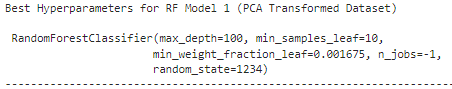
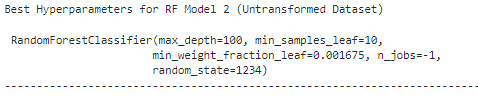
adding hyperparameter tuning

diff --git a/README-FM.md b/README-FM.md
@@ -66,6 +66,36 @@ Random Forest is a tree-based model that is suitable for both classification and
 
 Hence, all these reasons make Random Forest a sensible choice for the problem that we are trying to tackle.
 
+**Choosing the Best Hyperparameters for the Models**
+
+In order to choose the best set of hyperprameters for our models, we have used the `Validation Set` that was created earlier to tune the models and used a `Randomized Hyperparameter Search Technique`. The metric that we chose to track and tune our models was `AUC (Area Under the ROC Curve)`. This metric will be discussed in detail in the Model Assessment Section below. It essentially measures the ability of a model to distinguish between positive (sarcasm) and negative (non-sarcasm)  classes across all possible threshold values. The hyperparameters will be chosen based on the best AUC score that we are able to obtain on the validation set. 
+
+Some examples of model hyperparameters that we will be tuning are: `maximum depth of the tree`, `number of trees`, `number of data points in the leaf of a tree`, etc. These are parameters that cannot be learned during model training and have to be set by the data scientist. The `Randomized Hyperparameter Search Process` generates random combinations of hyperparameters from a grid of possible values and uses cross-validation to evaluate the performance of each combination. It returns the best hyperparameters that resulted in the highest performance based on a given metric such as AUC Score. 
+
+Based on this process, we have set a range of values to search in for each hyperparameter like the example shown in the image below and the search process will iterate through each of these combination in a randomized manner and chose the best set of values based on the AUC Score.
+
+* `Initial Parameter Search Space`: The values highlighted in yellow are range of possible options and the process will search for the best combination of each of these possible options.  
+
+![assets](assets/predictive_analysis/random_forest/model1_1.png)
+
+* `Best Validation AUC Score Obtained`: These are the best AUC scores obtained on the validation sets  
+
+![assets](assets/predictive_analysis/random_forest/model1_3.png)
+
+![assets](assets/predictive_analysis/random_forest/model2_3.png)
+
+* `Best Set of Hyperparameters based on the AUC Score`: These are the hyperprameters that produced the best Validation AUC Scores. The `max depth` chosen is larger for RF Model 2 and it makes logical sense because that is the model with untransformed features and has a much larger number of input features whereas RF Model 1 uses the PCA Transformed Features having a much lower number of input features to begin with. The `min weight fraction leaf` is also larger for RF Model 2 which makes sense because this parameter controls the size of the tree and setting a higher value results in a smaller tree size. It is helpful to have a smaller tree size for RF Model 2 because of the large number of input features and a smaller tree size can help reduce overfitting. Hence, all the parameter choices make logical sense according to the input data.
+
+![assets](assets/predictive_analysis/random_forest/model1_2.png)
+
+![assets](assets/predictive_analysis/random_forest/model2_2.png)
+
+* `Example of the Hyperparameter Search Process:` This example is for RF Model 2 and the tuning process tracks a ton of metrics including fit time but chooses the best set based on AUC
+
+![assets](assets/predictive_analysis/random_forest/model2_12.png)
+
+
+
 
 <br><br><br>
 
